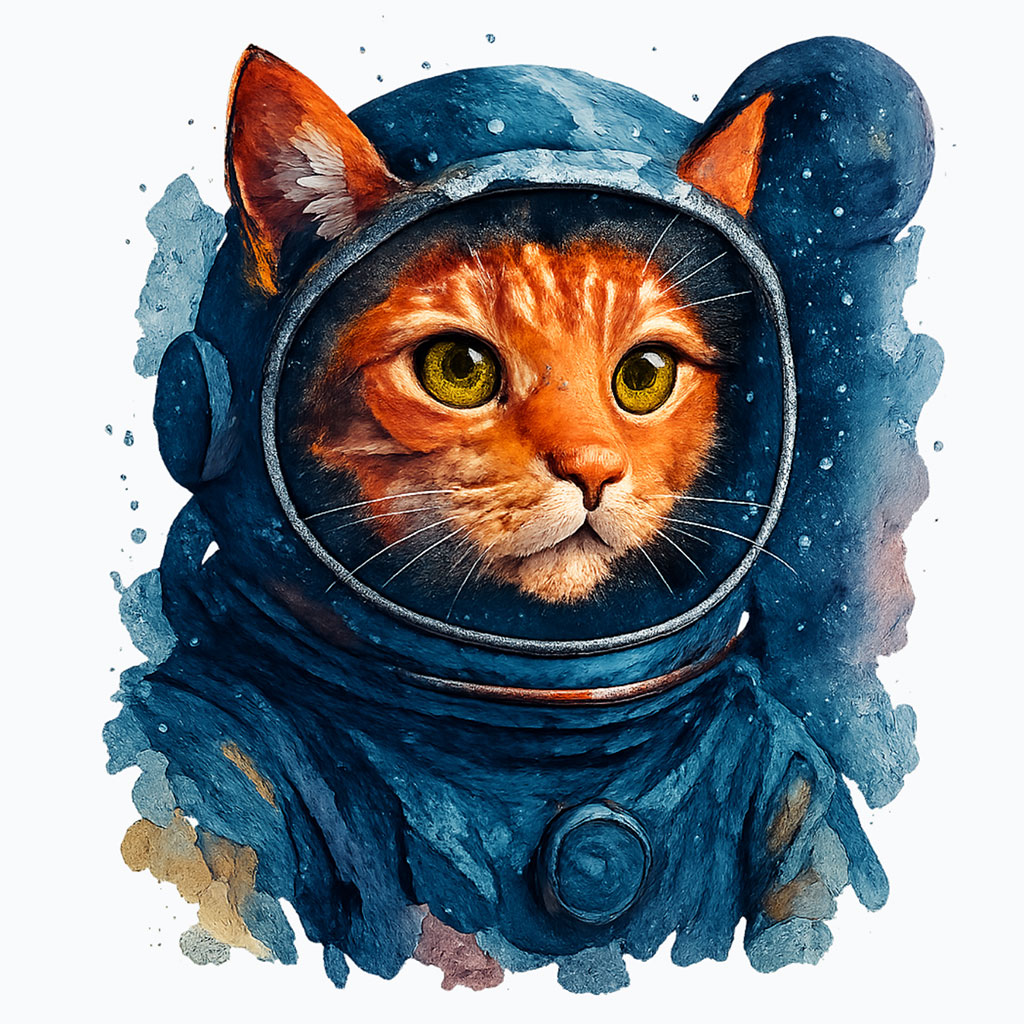
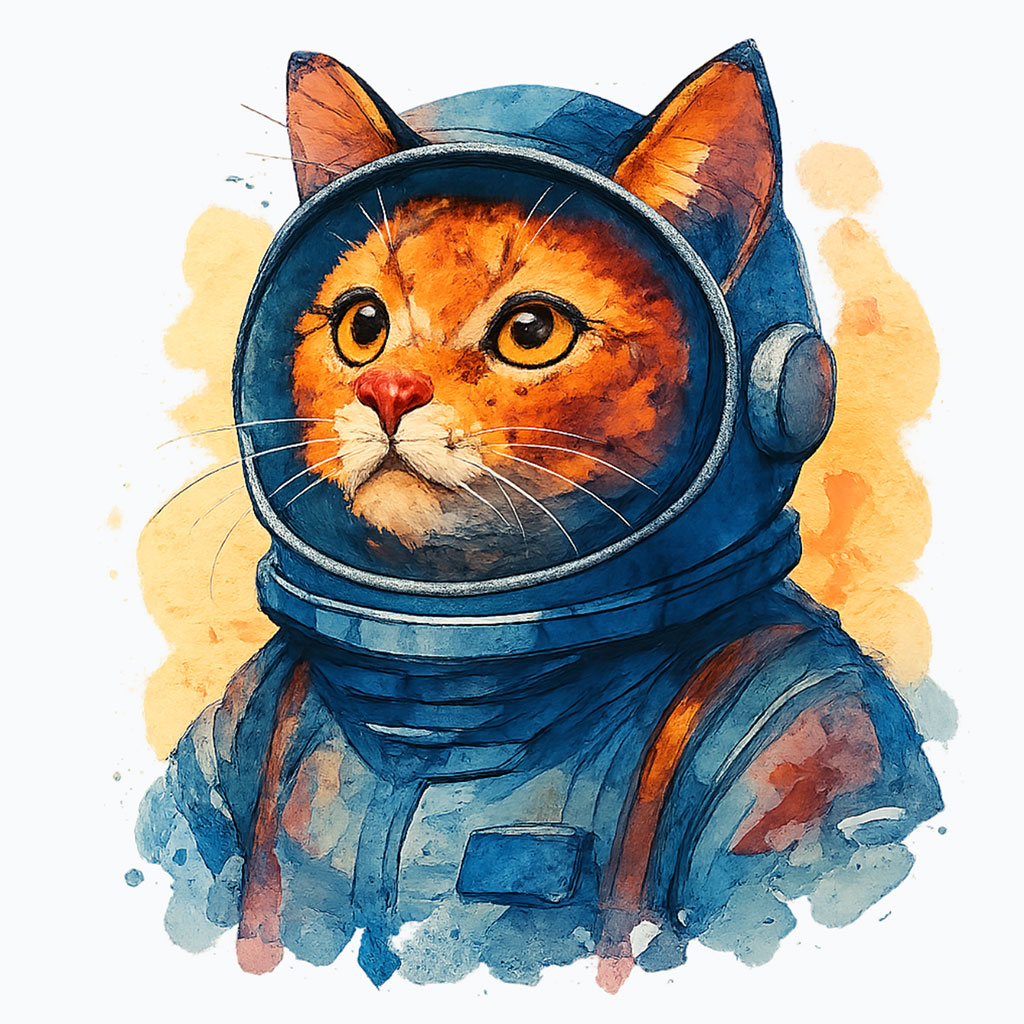
Replace vintage-comic with vector-stencil in style selection
- Replace vintage-comic style with vector-stencil
- Update import to use style_stencil.jpg
- Update style name and description
- Update style images for childrens_book and watercolor

diff --git a/src/components/StyleSelection.tsx b/src/components/StyleSelection.tsx
@@ -8,7 +8,7 @@ import StyleCartoonAvatar from '../assets/style_cartoon_avatar.jpg';
 import StyleChildrensBook from '../assets/style_childrens_book.jpg';
 import StyleGrunge from '../assets/style_grunge.jpg';
 import StyleRealistic from '../assets/style_realistic.jpg';
-import StyleVintageComic from '../assets/style_vintage_comic.jpg';
+import StyleStencil from '../assets/style_stencil.jpg';
 
 interface Style {
   id: string;
@@ -27,7 +27,7 @@ export const StyleSelection: React.FC<StyleSelectionProps> = ({
   onStyleSelect,
 }) => {
   const styles: Style[] = [
-    // Row 1: Realistic, Black & White, Cyberpunk, Grunge, Vintage Comic
+    // Row 1: Realistic, Black & White, Cyberpunk, Grunge, Vector Stencil
     {
       id: 'realistic',
       name: 'Realistic',
@@ -53,10 +53,10 @@ export const StyleSelection: React.FC<StyleSelectionProps> = ({
       previewUrl: StyleGrunge,
     },
     {
-      id: 'vintage-comic',
-      name: 'Vintage Comic',
-      description: 'Classic black & white comic',
-      previewUrl: StyleVintageComic,
+      id: 'vector-stencil',
+      name: 'Vector Stencil',
+      description: 'High contrast stencil art',
+      previewUrl: StyleStencil,
     },
     // Row 2: Comic, Cartoon Avatar, Watercolor, Children's Book, Botanical
     {
